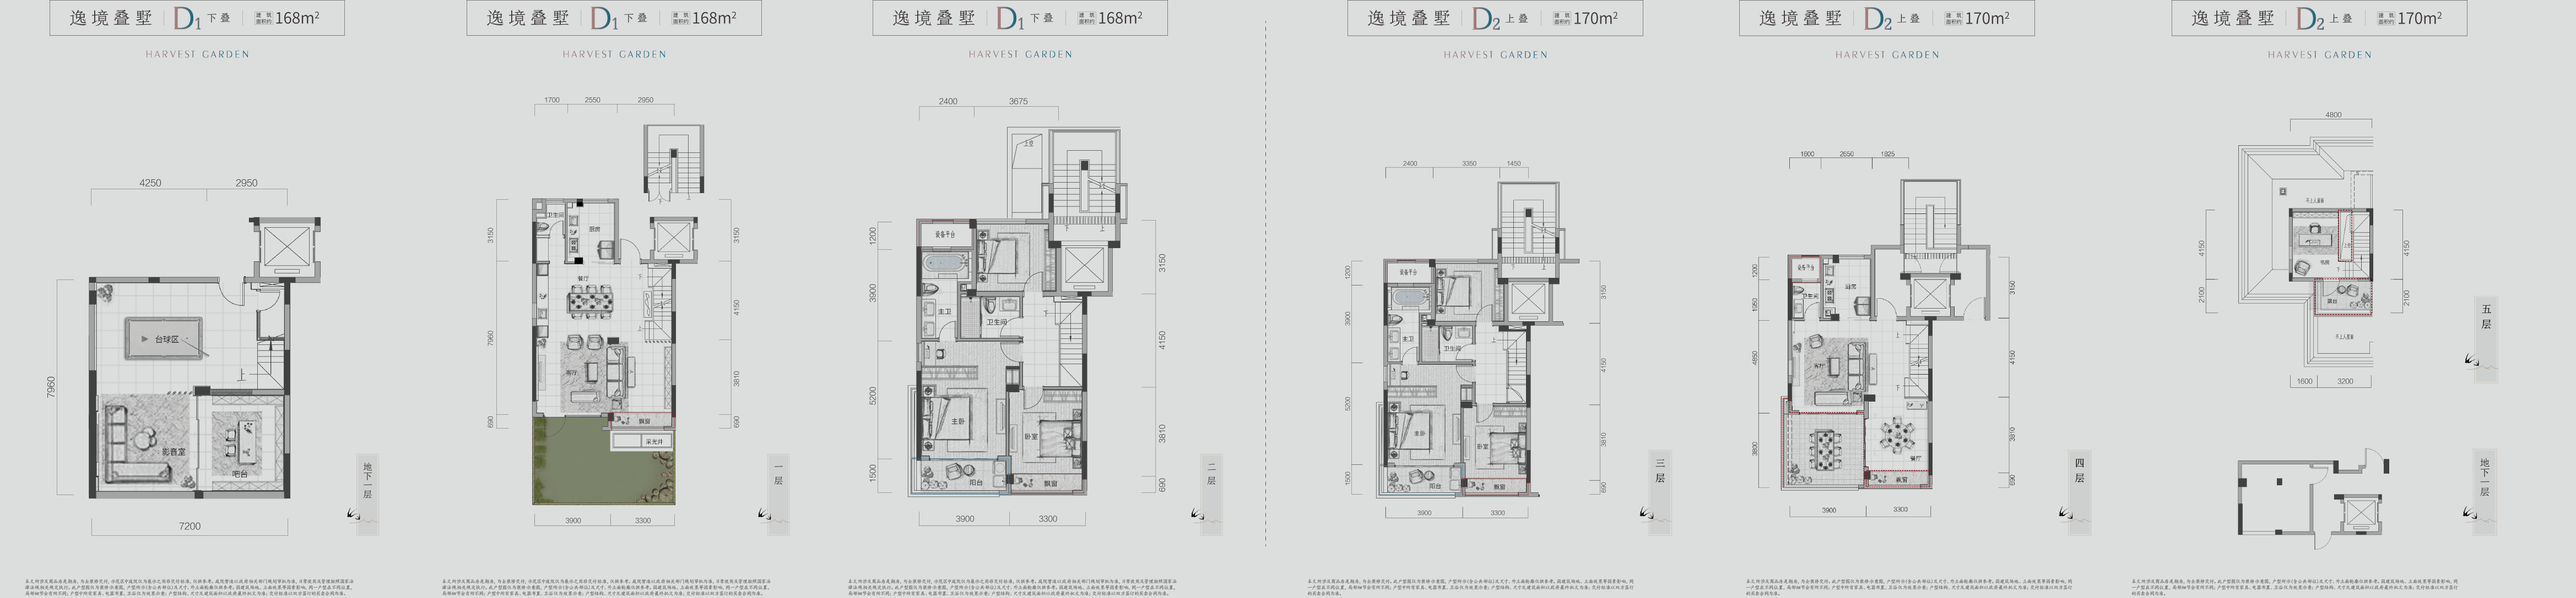
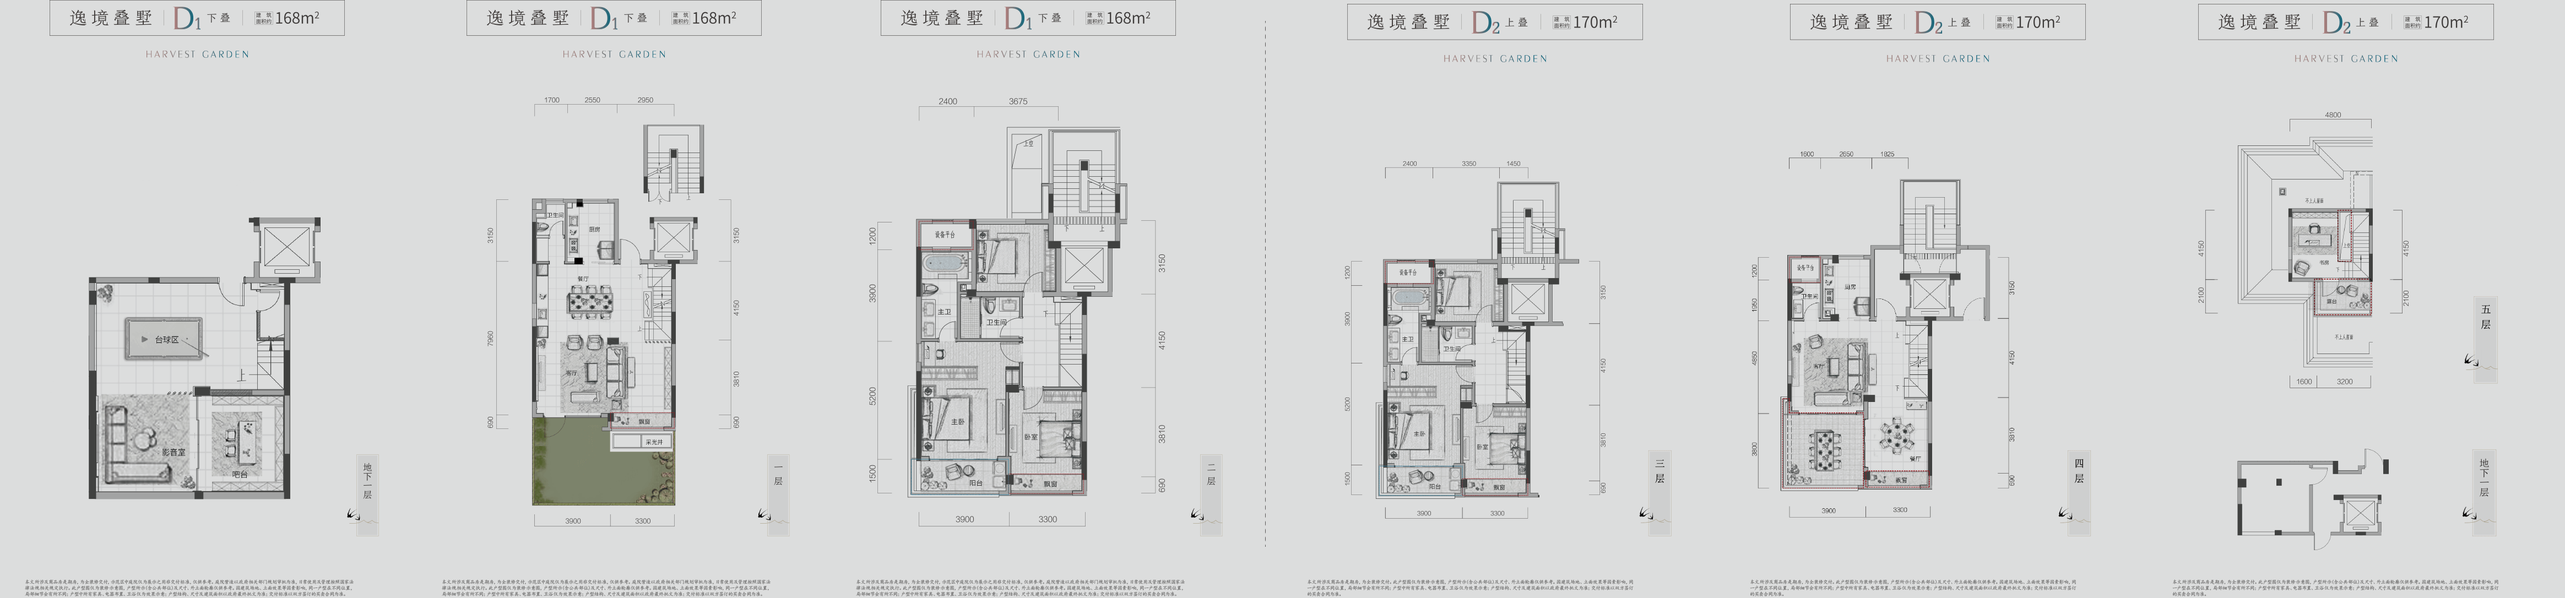
细节修改

diff --git a/public/frontend/css/index.css b/public/frontend/css/index.css
@@ -801,7 +801,7 @@ body .swiper-container {
 }
 
 .page15 .main-img {
-    width: 46.76rem;
+    width: 46.57rem;
     position: relative;
 }
 
@@ -819,9 +819,9 @@ body .swiper-container {
 }
 
 .img13-1 {
-    width: 6.3rem;
+    width: 6.18rem;
     top: 2.31rem;
-    left: .6rem;
+    left: .66rem;
     mix-blend-mode: multiply;
 }
 
